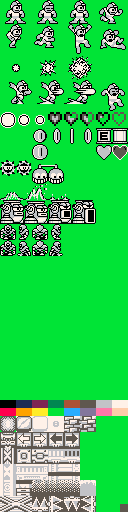
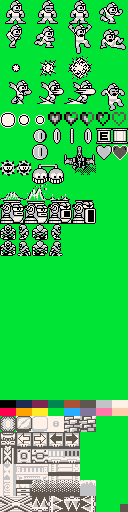
Added crashed ship to overworld, which will eventually check how many gems you have, and allow the user to enter Act 2. WIP

Changed region(s): [[0.5, 0.2812, 0.75, 0.3438]]

diff --git a/mbh-platformer/mbh-platformer/Game1.cs b/mbh-platformer/mbh-platformer/Game1.cs
@@ -1513,6 +1513,11 @@ namespace mbh_platformer
             {
                 base._update60();
 
+                if (inst.hit_pause.is_paused() || (inst.cur_game_state == game_state.gameplay_dead))
+                {
+                    return;
+                }
+
                 // Calculate prior to moving so that if we reach the
                 // destination, we still remember what direction we
                 // we going.
@@ -3068,6 +3073,58 @@ namespace mbh_platformer
             }
         }
 
+        public class rocket_ship : sprite
+        {
+            bool hit = false;
+            public rocket_ship()
+            {
+                anims = new Dictionary<string, anim>()
+                {
+                    {
+                        "default",
+                        new anim()
+                        {
+                            ticks=15,//how long is each frame shown.
+                            frames = new int[][]
+                            {
+                                create_anim_frame(296, 4, 4),
+                            }
+                        }
+                    },
+                };
+
+                set_anim("default");
+
+                w = 32;
+                h = 32;
+                cw = 16;
+                ch = 16;
+            }
+
+            public override void _update60()
+            {
+                base._update60();
+
+                if (inst.intersects_obj_obj(this, inst.pc.pawn))
+                {
+                    if (hit == false)
+                    {
+
+                        // todo: count gems found.
+
+                        inst.message = new message_box();
+                        inst.message.set_message("title", "more goodies needed!");
+
+                    }
+                    hit = true;
+                }
+                else
+                {
+                    hit = false;
+                }
+            }
+        }
+
         public enum game_state
         {
             main_menu,
@@ -3091,8 +3148,8 @@ namespace mbh_platformer
 
         public hit_pause_manager hit_pause;
 
-        public string current_map   = "Content/raw/test_map_2.tmx";
-        public string queued_map    = "Content/raw/test_map_2.tmx";
+        public string current_map   = "Content/raw/test_map_3.tmx";
+        public string queued_map    = "Content/raw/test_map_3.tmx";
 
         public int cur_level_id = 0;
         public int gems_per_level = 4;
@@ -3285,6 +3342,16 @@ namespace mbh_platformer
                                 {
                                     objs_add_queue.Add(
                                             new steam_spawner()
+                                            {
+                                                x = (float)o.X + ((float)o.Width * 0.5f),
+                                                y = (float)o.Y + ((float)o.Height * 0.5f),
+                                            }
+                                        );
+                                }
+                                else if (string.Compare(o.Type, "spawn_rocket_ship", true) == 0)
+                                {
+                                    objs_add_queue.Add(
+                                            new rocket_ship()
                                             {
                                                 x = (float)o.X + ((float)o.Width * 0.5f),
                                                 y = (float)o.Y + ((float)o.Height * 0.5f),
